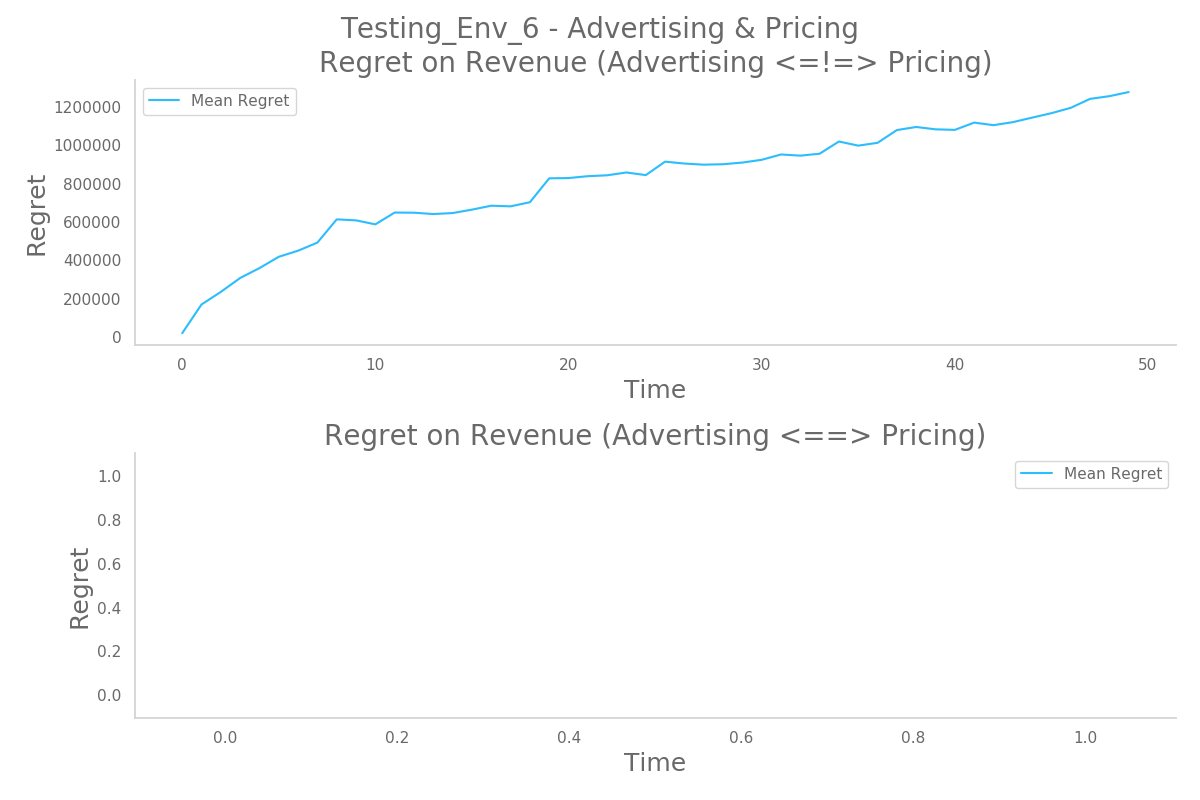
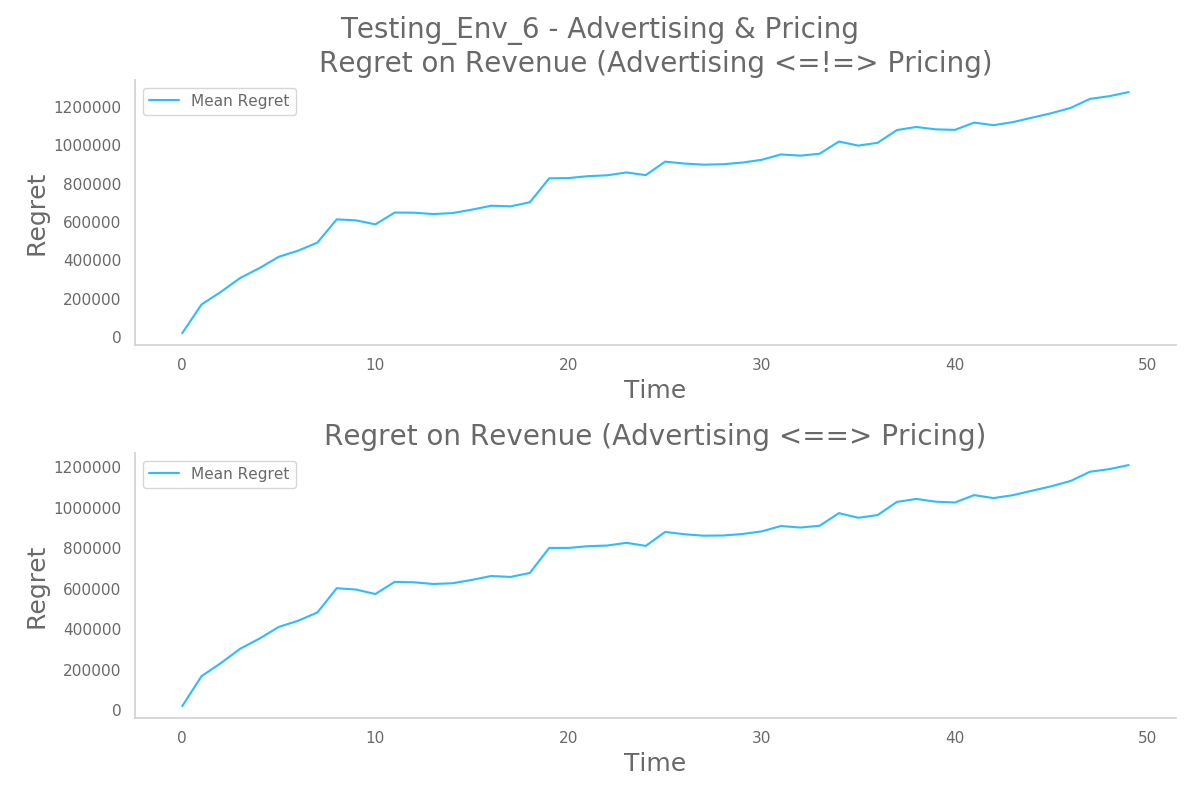
agnostic vs non-agnostic regret

diff --git a/project/part_6/BudgetAllocator.py b/project/part_6/BudgetAllocator.py
@@ -1,7 +1,7 @@
 import numpy as np
 
-from project.dia_pckg.Config import max_bid
 from project.part_2.Optimizer import fit_table
+from project.part_2.Utils import get_idx_arm_from_allocation
 from project.part_6.MultiSubCampaignHandler import MultiSubCampaignHandler
 
 
@@ -31,6 +31,7 @@ class BudgetAllocator:
         self.best_allocation = self.day_zero_initialization()
 
         self.regret = []
+        self.optimal_total_revenue = self.get_optimal_total_revenue()
 
     def day_zero_initialization(self):
         """
@@ -39,28 +40,21 @@ class BudgetAllocator:
         avg = 1 / self.n_subcampaigns
         return [avg, avg, avg]
 
-    def update(self, opt=False):
+    def update(self):
 
         self.msh.update_all_subcampaign_handlers(self.best_allocation)
+
+        self.regret.append(self.optimal_total_revenue - self.msh.daily_revenue)
 
         table_all_subs = np.ndarray(shape=(0, len(self.msh.subcampaigns_handlers[0].advertising.env.bids)),
                                     dtype=np.float32)
 
         for subcampaign_handler in self.msh.subcampaigns_handlers:
+            learner_clicks = subcampaign_handler.get_updated_parameters().means
 
-            if not opt:
-                # in this case we get the learned curves from the learners
-                learner_clicks = subcampaign_handler.get_updated_parameters().means
-
-                n_clicks = subcampaign_handler.total_clicks
-                v = subcampaign_handler.total_revenue / n_clicks if n_clicks != 0 else 0
-                revenue_clicks = learner_clicks * v if self.enable_pricing else learner_clicks
-
-            else:
-                # in the optimal case we already know the complete curve
-                bids = np.linspace(0, max_bid, subcampaign_handler.advertising.n_arms)
-                learner_clicks = subcampaign_handler.advertising.env.subs[subcampaign_handler.advertising.sub](bids)
-                revenue_clicks = learner_clicks * subcampaign_handler.pricing.get_optimal_revenue()
+            n_clicks = subcampaign_handler.total_clicks
+            v = subcampaign_handler.total_revenue / n_clicks if n_clicks != 0 else 0
+            revenue_clicks = learner_clicks * v if self.enable_pricing else learner_clicks
 
             table_all_subs = np.append(table_all_subs, np.atleast_2d(revenue_clicks.T), 0)
 
@@ -69,3 +63,35 @@ class BudgetAllocator:
 
         if round(sum(self.best_allocation), 3) != 1:
             raise Exception("Allocation unfeasible")
+
+    def get_optimal_total_revenue(self):
+        """
+            This function is to compute the total optimal revenue, for the computation of the non-agnostic regret.
+            Note: the so called "agnostic" regret is the regret in which the optimal revenue
+                is computed using the "optimal number of clicks",
+                but the "optimal number of clicks" is NOT computed knowing the pricing.
+                Below, we compute the "optimal number of clicks" using the pricing!
+        """
+        table_all_subs = np.ndarray(shape=(0, len(self.msh.subcampaigns_handlers[0].advertising.env.bids)),
+                                    dtype=np.float32)
+
+        # for loop to initialize the table with the product between the unknown curves and the optimal revenues
+        for sub_idx, subcampaign_handler in enumerate(self.msh.subcampaigns_handlers):
+            unknown_clicks_curve = subcampaign_handler.advertising.env.subs[sub_idx].means['phase_0']
+            revenue_clicks = unknown_clicks_curve * subcampaign_handler.pricing.optimal_revenue
+            table_all_subs = np.append(table_all_subs, np.atleast_2d(revenue_clicks.T), 0)
+
+        # computation of the optimal allocation
+        optimal_allocation = fit_table(table_all_subs)[0]
+
+        # Once we have computed the optimal allocation, we can compute the total revenue
+        # using the pricing
+        optimal_total_revenue = 0
+        for sub_idx, (allocation, subcampaign_handler) in enumerate(zip(optimal_allocation, self.msh.subcampaigns_handlers)):
+            hypothetical_pulled_arm = get_idx_arm_from_allocation(
+                allocation=allocation,
+                bids=self.msh.subcampaigns_handlers[0].advertising.env.bids)
+            optimal_clicks = self.msh.bidding_environment.subs[sub_idx].means['phase_0'][hypothetical_pulled_arm]
+            optimal_total_revenue += optimal_clicks * subcampaign_handler.pricing.optimal_revenue
+
+        return optimal_total_revenue

diff --git a/project/part_6/MultiSubCampaignHandler.py b/project/part_6/MultiSubCampaignHandler.py
@@ -35,8 +35,8 @@ class MultiSubCampaignHandler:
             self.subcampaigns_handlers.append(subcampaign_handler)
 
         self.regret = []
+        self.daily_revenue = 0
         self.total_revenue = 0
-        self.total_regret = 0
 
     def update_all_subcampaign_handlers(self, allocations, opt=False):
         """
@@ -49,20 +49,20 @@ class MultiSubCampaignHandler:
         # Learn about data of the current day, given the budget allocations
         learners = []
         total_daily_regret = 0
+        self.daily_revenue = 0
         for subcampaign_handler, allocation in zip(self.subcampaigns_handlers, allocations):
             # conversion from percentage to arm index
             pulled_arm = get_idx_arm_from_allocation(allocation=allocation,
-                                                     bids=subcampaign_handler.advertising.env.bids,
-                                                     max_bid=max_bid)
+                                                     bids=subcampaign_handler.advertising.env.bids)
 
-            daily_regret, daily_revenue = subcampaign_handler.daily_update(pulled_arm, opt=opt)
+            subcampaign_daily_regret, subcampaign_daily_revenue = subcampaign_handler.daily_update(pulled_arm, opt=opt)
             learner = subcampaign_handler.get_updated_parameters()
             learners.append(learner)
-            total_daily_regret += daily_regret
-            self.total_revenue += daily_revenue
+            total_daily_regret += subcampaign_daily_regret
+            self.daily_revenue += subcampaign_daily_revenue
 
-        self.total_regret += total_daily_regret
-        # Save daily regret
+        # saving revenue and regret
+        self.total_revenue += self.daily_revenue
         self.regret.append(total_daily_regret)
 
         return learners

diff --git a/project/part_6/Testing_Env_6.py b/project/part_6/Testing_Env_6.py
@@ -44,8 +44,8 @@ def execute_experiment(args):
         current_day, done = env.step()
 
     print('Total revenue:', int(budget_allocator.msh.total_revenue),
-          'Cumulative regret:', int(budget_allocator.msh.total_regret),
-          'Final loss:', budget_allocator.msh.total_regret / budget_allocator.msh.total_revenue)
+          'Cumulative regret:', int(sum(budget_allocator.msh.regret)),
+          'Final loss:', sum(budget_allocator.msh.regret) / budget_allocator.msh.total_revenue)
 
     print(str(index) + ' has ended')
 

diff --git a/project/part_2/Utils.py b/project/part_2/Utils.py
@@ -18,9 +18,9 @@ def compute_clairvoyant(env, phase=0, verbose=False):
     return n_clicks
 
 
-def get_idx_arm_from_allocation(allocation, bids, max_bid):
+def get_idx_arm_from_allocation(allocation, bids):
     # conversion from percentage to arm index
-    allocation_bid = allocation * max_bid
+    allocation_bid = allocation * bids[-1]
     nearest_allocation = find_nearest(bids, allocation_bid)
     pulled_arm = np.where(bids == nearest_allocation)[0][0]
     return int(pulled_arm)

diff --git a/project/part_3/Learning_experiment.py b/project/part_3/Learning_experiment.py
@@ -35,7 +35,7 @@ def execute_experiment(args):
                 table_all_Subs = np.append(table_all_Subs, np.atleast_2d(l.means.T), 0)
             allocations = fit_table(table_all_Subs)[0]
             # conversion to arm index
-            pulled = [get_idx_arm_from_allocation(allocation, bids, max_bid) for allocation in allocations]
+            pulled = [get_idx_arm_from_allocation(allocation, bids) for allocation in allocations]
 
         clicks = env.round(pulled)
 

diff --git a/project/part_2/Testing_part2.py b/project/part_2/Testing_part2.py
@@ -56,7 +56,7 @@ def running(total_click, learners, env, n_obs_exploitation):
 
         allocations = fit_table(table_all_subs)[0]
         # conversion to arm index
-        pulled = [get_idx_arm_from_allocation(allocation, bids, max_bid) for allocation in allocations]
+        pulled = [get_idx_arm_from_allocation(allocation, bids) for allocation in allocations]
 
         clicks = env.round(pulled)
 
